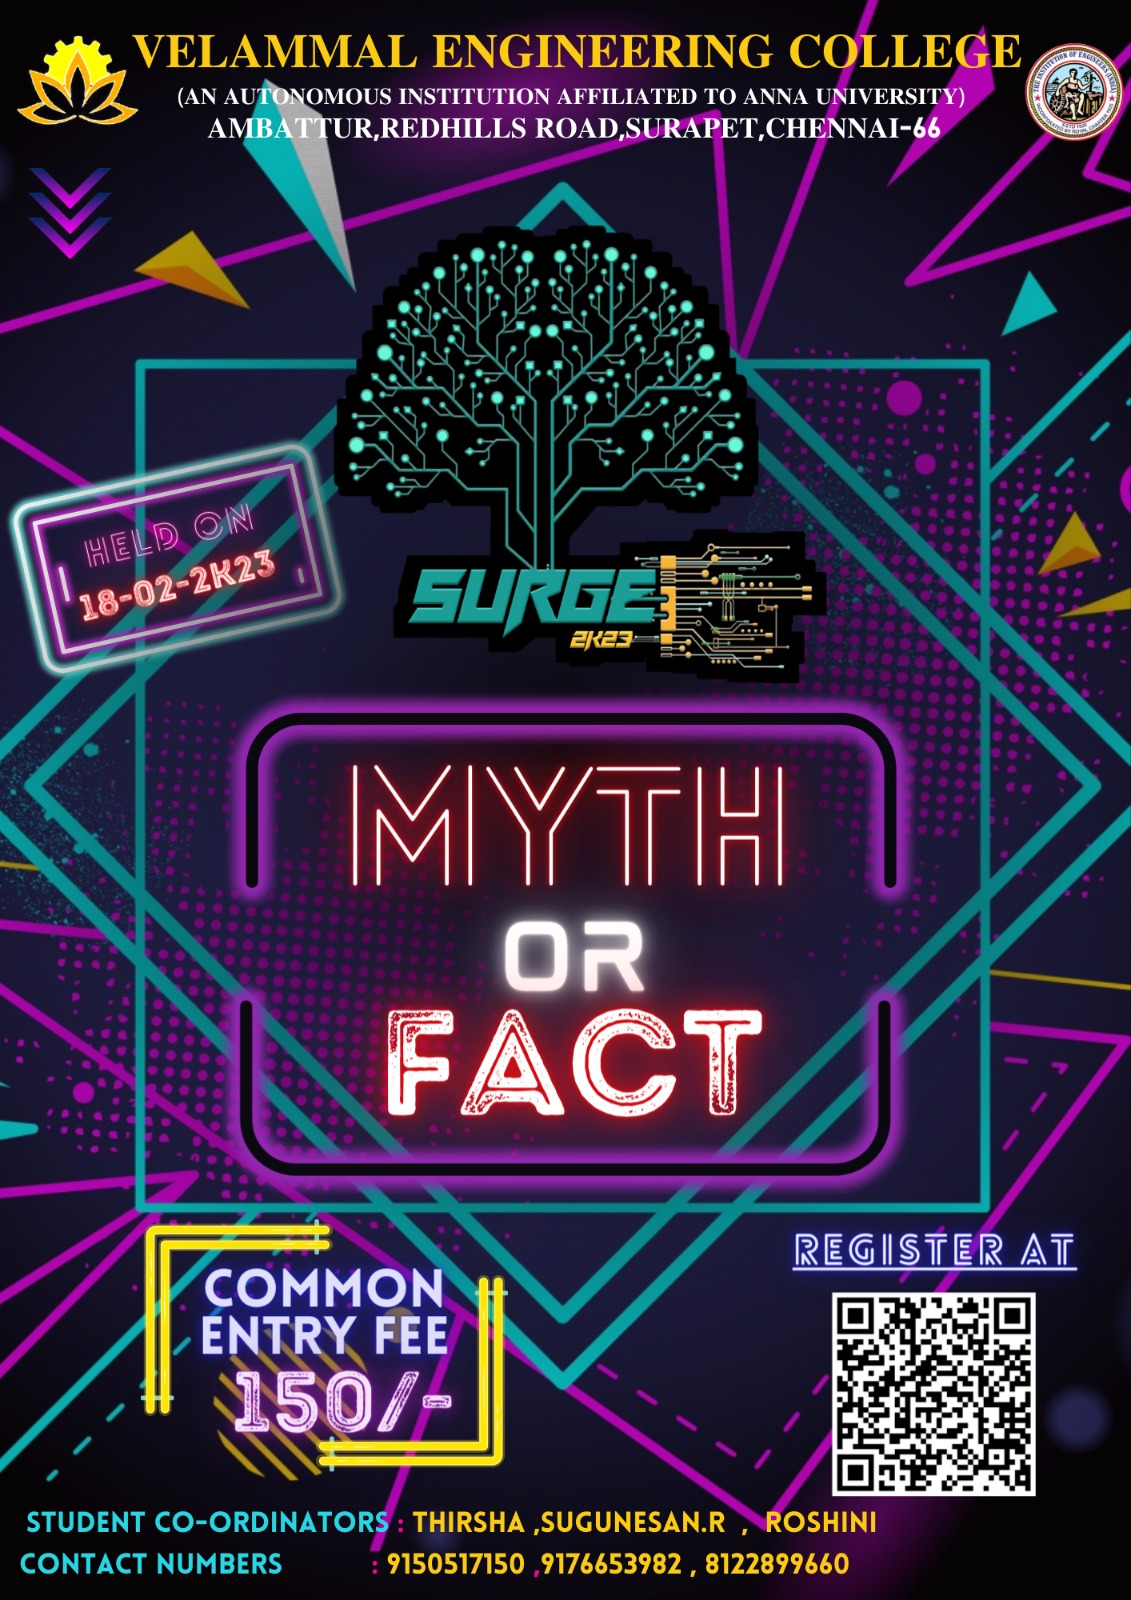
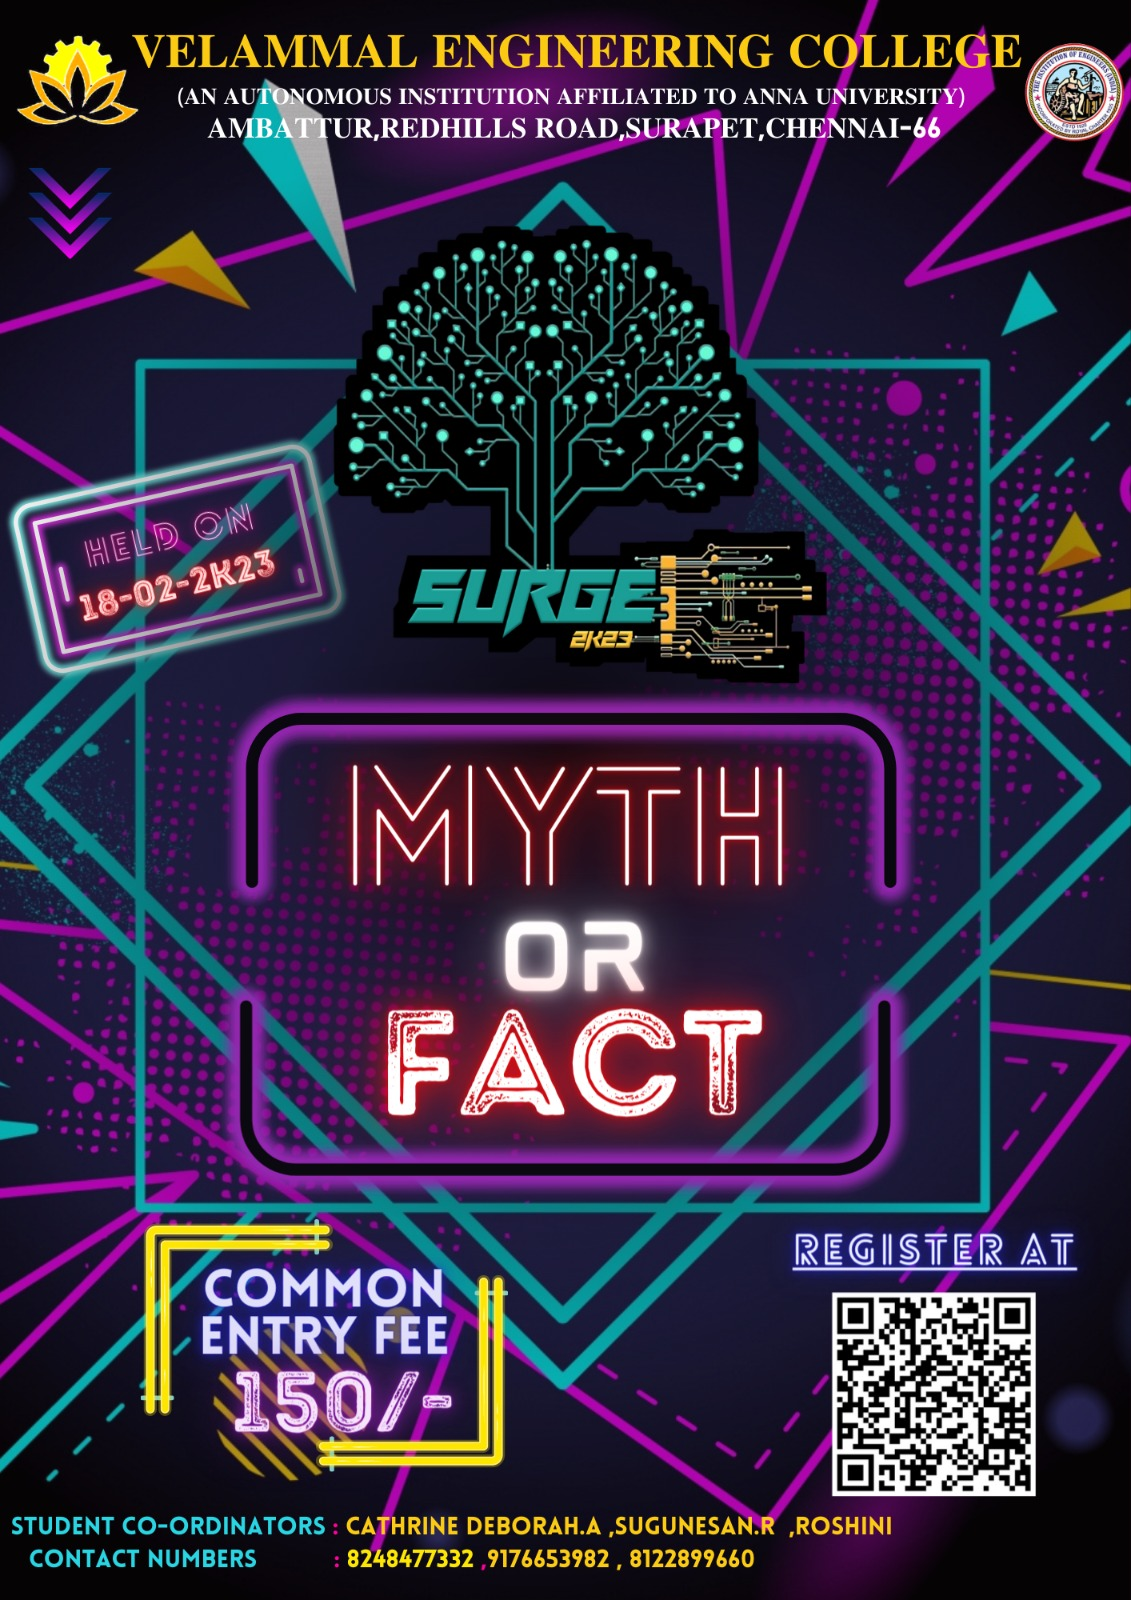
first

Changed region(s): [[0.0, 0.9375, 0.8046, 1.0]]

diff --git a/src/pages/Homepage.js b/src/pages/Homepage.js
@@ -75,9 +75,9 @@ const Homepage = ({setevent,home,events,contact,sponsors}) => {
           <Link to="/mythorfact" className='hover:text-yellow-500 hover:font-bold text-lg' >Myth or Fact</Link>
           <Link to="/murderandmystery" className='hover:text-yellow-500 hover:font-bold text-lg' >Crack the Codes</Link>
         </div>:
-        <div className='text-center mt-4 mb-3 md:hidden'>𝑵𝒐𝒏-𝒕𝒆𝒄𝒉𝒏𝒊𝒄𝒂𝒍 𝑒𝑣𝑒𝑛𝑡𝑠 𝑖𝑛𝑐𝑙𝑢𝑑𝑒 5 𝑓𝑢𝑛 𝑓𝑖𝑙𝑙𝑒𝑑 𝑒𝑣𝑒𝑛𝑡𝑠 𝑡ℎ𝑎𝑡 𝑐ℎ𝑎𝑙𝑙𝑒𝑛𝑔𝑒 𝑦𝑜𝑢𝑟 𝑚𝑒𝑛𝑡𝑎𝑙 𝑠𝑡𝑟𝑒𝑛𝑔𝑡ℎ 𝑎𝑛𝑑 𝑎𝑟𝑡𝑖𝑠𝑡𝑖𝑐 𝑣𝑖𝑒𝑤𝑠.</div>}
+        <div className='text-center mt-4 mb-3 md:hidden'>𝑵𝒐𝒏-𝒕𝒆𝒄𝒉𝒏𝒊𝒄𝒂𝒍 𝑒𝑣𝑒𝑛𝑡𝑠 𝑖𝑛𝑐𝑙𝑢𝑑𝑒 4 𝑓𝑢𝑛 𝑓𝑖𝑙𝑙𝑒𝑑 𝑒𝑣𝑒𝑛𝑡𝑠 𝑡ℎ𝑎𝑡 𝑐ℎ𝑎𝑙𝑙𝑒𝑛𝑔𝑒 𝑦𝑜𝑢𝑟 𝑚𝑒𝑛𝑡𝑎𝑙 𝑠𝑡𝑟𝑒𝑛𝑔𝑡ℎ 𝑎𝑛𝑑 𝑎𝑟𝑡𝑖𝑠𝑡𝑖𝑐 𝑣𝑖𝑒𝑤𝑠.</div>}
         <button onClick={()=>setntevent(!ntevent)} className='py-1 px-2 bg-yellow-500 text-white rounded-lg md:hidden'>view</button>
-        <div className='text-center mt-4 mb-3 hidden md:block'>𝑵𝒐𝒏-𝒕𝒆𝒄𝒉𝒏𝒊𝒄𝒂𝒍 𝑒𝑣𝑒𝑛𝑡𝑠 𝑖𝑛𝑐𝑙𝑢𝑑𝑒 5 𝑓𝑢𝑛 𝑓𝑖𝑙𝑙𝑒𝑑 𝑒𝑣𝑒𝑛𝑡𝑠 𝑡ℎ𝑎𝑡 𝑐ℎ𝑎𝑙𝑙𝑒𝑛𝑔𝑒 𝑦𝑜𝑢𝑟 𝑚𝑒𝑛𝑡𝑎𝑙 𝑠𝑡𝑟𝑒𝑛𝑔𝑡ℎ 𝑎𝑛𝑑 𝑎𝑟𝑡𝑖𝑠𝑡𝑖𝑐 𝑣𝑖𝑒𝑤𝑠.</div>
+        <div className='text-center mt-4 mb-3 hidden md:block'>𝑵𝒐𝒏-𝒕𝒆𝒄𝒉𝒏𝒊𝒄𝒂𝒍 𝑒𝑣𝑒𝑛𝑡𝑠 𝑖𝑛𝑐𝑙𝑢𝑑𝑒 4 𝑓𝑢𝑛 𝑓𝑖𝑙𝑙𝑒𝑑 𝑒𝑣𝑒𝑛𝑡𝑠 𝑡ℎ𝑎𝑡 𝑐ℎ𝑎𝑙𝑙𝑒𝑛𝑔𝑒 𝑦𝑜𝑢𝑟 𝑚𝑒𝑛𝑡𝑎𝑙 𝑠𝑡𝑟𝑒𝑛𝑔𝑡ℎ 𝑎𝑛𝑑 𝑎𝑟𝑡𝑖𝑠𝑡𝑖𝑐 𝑣𝑖𝑒𝑤𝑠.</div>
       </div>
       
       </div>

diff --git a/src/Data/EventData.js b/src/Data/EventData.js
@@ -167,7 +167,7 @@ Topics:
     -𝐸𝑎𝑐ℎ 𝑡𝑒𝑎𝑚 𝑠ℎ𝑜𝑢𝑙𝑑 𝑚𝑎𝑡𝑐ℎ 𝑡ℎ𝑒 𝑐𝑜𝑟𝑟𝑒𝑐𝑡 𝑐ℎ𝑖𝑙𝑑ℎ𝑜𝑜𝑑 𝑖𝑚𝑎𝑔𝑒𝑠 𝑤𝑖𝑡ℎ𝑖𝑛 𝑎 𝑔𝑖𝑣𝑒𝑛 𝑡𝑖𝑚𝑒 𝑓𝑟𝑎𝑚𝑒.`,
     link:"https://docs.google.com/forms/d/1GYuepyKfNLAgfkVvrYxGQhayupMMuruUgocMDbNXMgQ/viewform?pli=1&pli=1&edit_requested=true",
     staffcoordinator:{name:"",phno:""},
-    studentcoordinator:{name:"THIRSHA - SUGUNESAN - ROSHINI",phno:"9150517150 9176653982  8122899660"}
+    studentcoordinator:{name:"CATHRINE DEBORAH - SUGUNESAN - ROSHINI",phno:"8248477332 - 9176653982 - 8122899660"}
 },
 {
     name:"𝑪𝑹𝑨𝑪𝑲 𝑻𝑯𝑬 𝑪𝑶𝑫𝑬𝑺",
